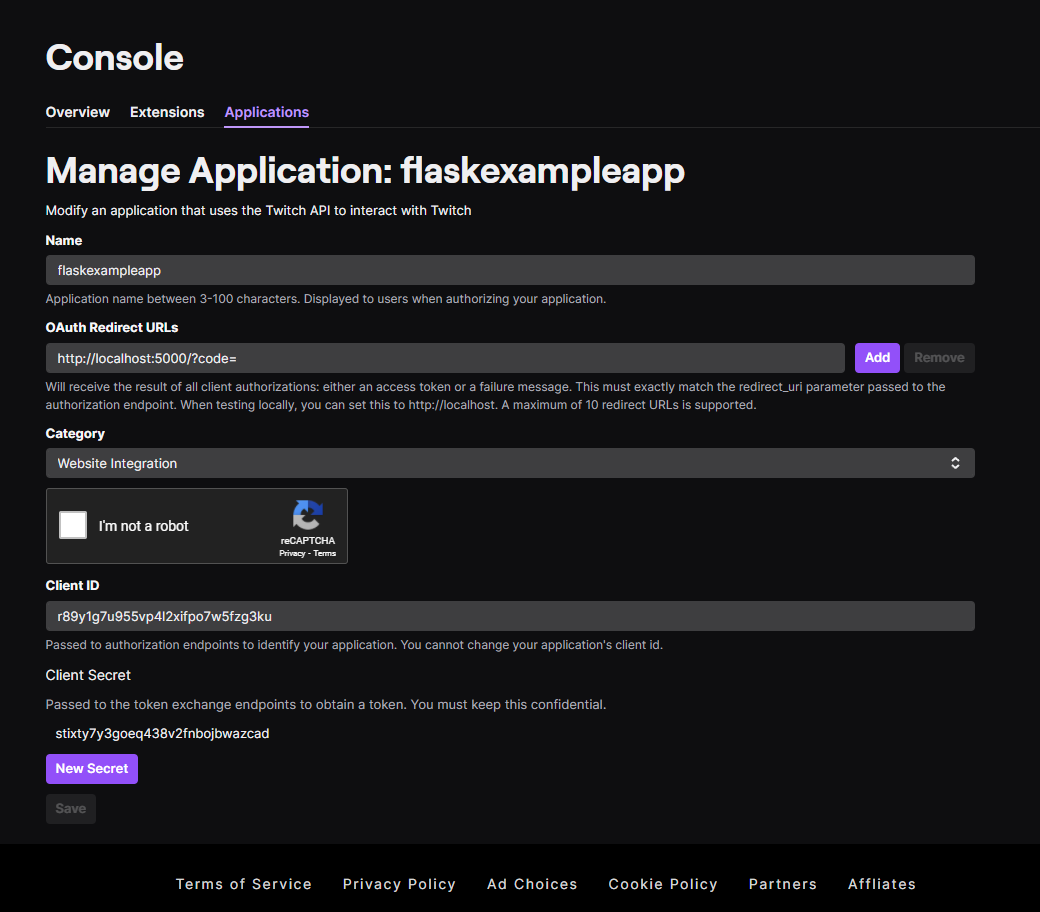
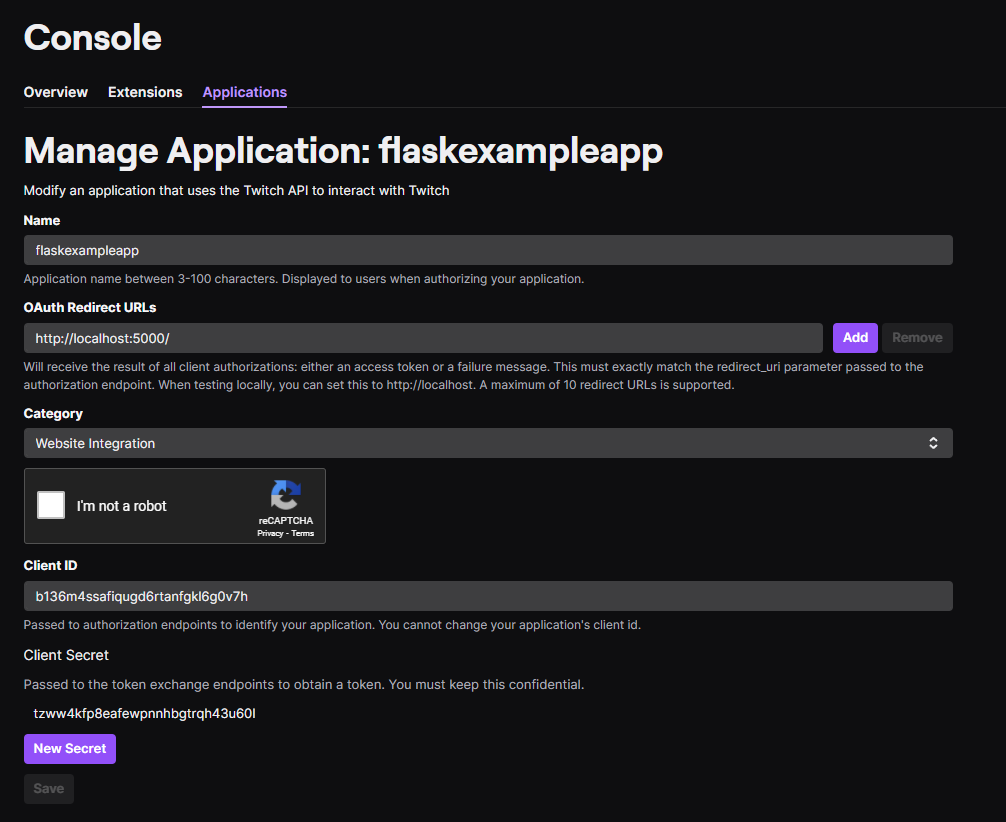
changed img + keys

diff --git a/web/templates/oauth_twitch.html b/web/templates/oauth_twitch.html
@@ -27,7 +27,7 @@
                 <img src="/static//img/blog/flask_install.png" alt="" class="mt-6 rounded">
             </p>
             <p class="text-md text-neutral-400 leading-6">
-                Now, before touching Flask, we will have to ensure that our environment variables are correctly set (which we will discuss later in more depth). 
+                Now, before touching Flask, we will have to ensure that our environment variables are correctly set. 
                 Bear in mind that this is entirely dependent on what type of Terminal you are using, below you can see
                 the most common types of terminal and the respective way to set an environment variable.
                 <img src="/static//img/blog/example_env.png" alt="" class="mt-6 rounded">
@@ -69,8 +69,8 @@ app = Flask(__name__)
 
 @app.route("/")
 def example():
-    cid = "r89y1g7u955vp4l2xifpo7w5fzg3ku"
-    csecret = "stixty7y3goeq438v2fnbojbwazcad"
+    cid = "b136m4ssafiqugd6rtanfgkl6g0v7h"
+    csecret = "tzww4kfp8eafewpnnhbgtrqh43u60l"
 
     req = f"https://id.twitch.tv/oauth2/token?client_id={cid}&client_secret={csecret}&grant_type=client_credentials"
                         
@@ -91,8 +91,8 @@ app = Flask(__name__)
 
 @app.route("/")
 def example():
-    cid = "r89y1g7u955vp4l2xifpo7w5fzg3ku"
-    csecret = "stixty7y3goeq438v2fnbojbwazcad"
+    cid = "b136m4ssafiqugd6rtanfgkl6g0v7h"
+    csecret = "tzww4kfp8eafewpnnhbgtrqh43u60l"
 
     r1 = f"https://id.twitch.tv/oauth2/token?client_id={cid}&client_secret={csecret}\&grant_type=client_credentials"
                         
@@ -113,6 +113,10 @@ def example():
             If you now run this script & take a peep at your terminal, you will see a JSON object with the current top live channel on twitch.
             Great! We can now successfully interact with Twitch and it's API, the <a class="hover:text-red-600 font-bold" href="https://dev.twitch.tv/docs/api/reference" target="_blank" rel="noopener">Twitch API documentation</a> is great and you should
             most definitely use it when working with Twitch.
+        </p>
+        <p class="text-md text-neutral-400 leading-6">
+            Lastly — if you're planning to ever deploy your application, or even put it on your public GitHub (or alternatives),
+            remember to put your client secret into your envrionment variables!
         </p>
         <p class="text-md text-neutral-400 leading-6">
             Thanks for reading!
